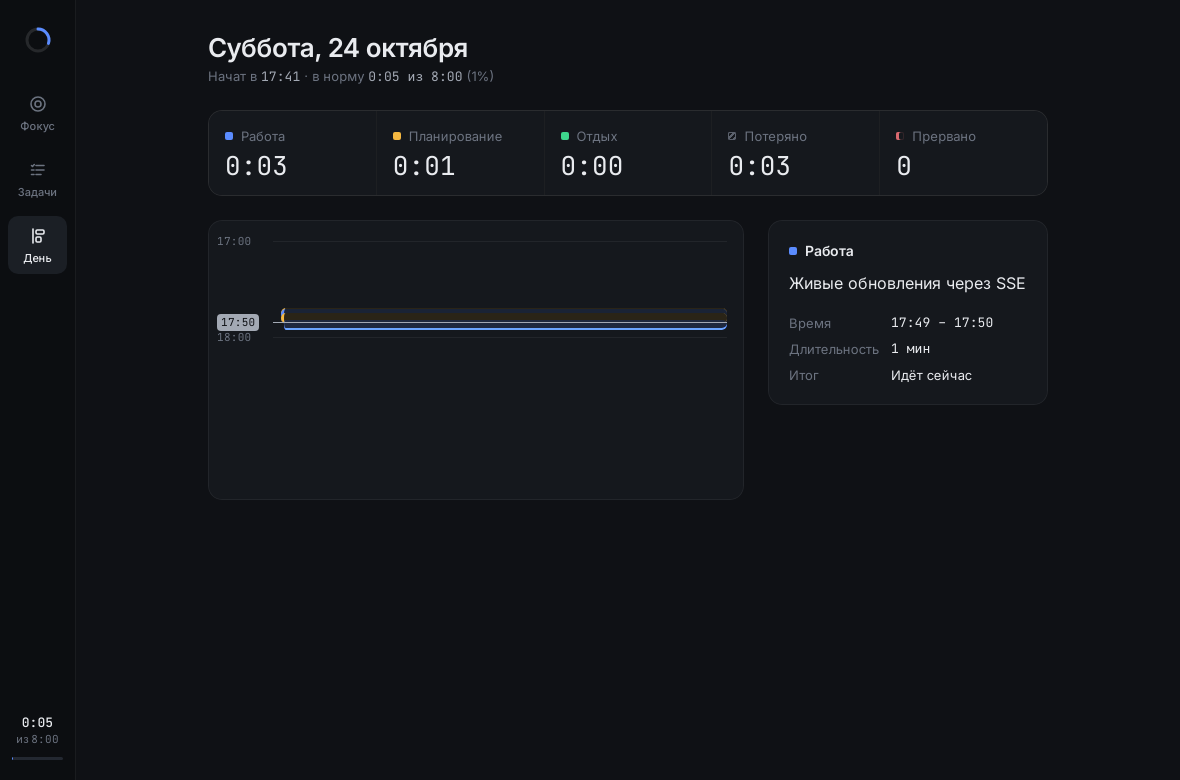
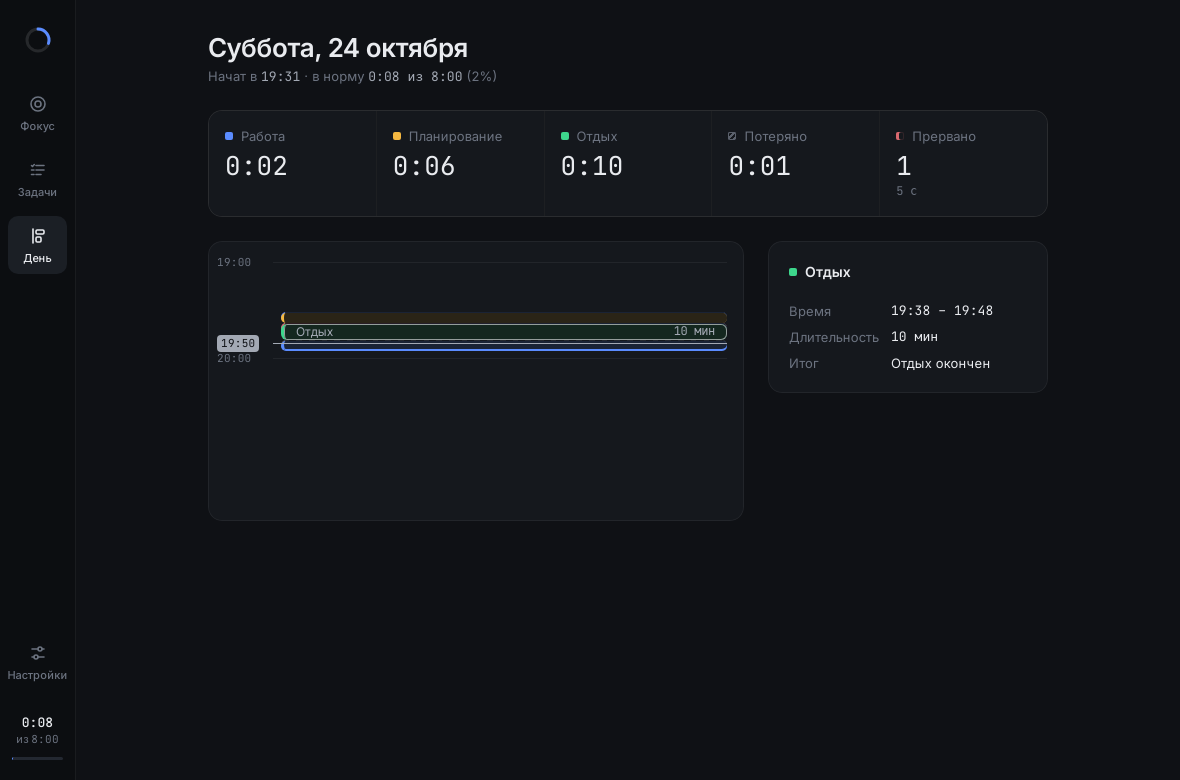
шаг 8: проверка вживую, скриншоты, известные ограничения
Проверка focus-flow ui на чистом каталоге данных: задачи, работа, «Готово»,
планирование, «Прервать», импорт и worklog через фальшивую Jira, настройки.
Исправлено: Пробел после клика по навигации. Скриншоты real-* — с
настоящего сервиса. docs/KNOWN-ISSUES.md. Шаг 8 отмечен.

Claude-Session: https://claude.ai/code/session_01XQ8wovWhXJpkyegxpNahSE

diff --git a/apps/ui/src/screens/focus.rs b/apps/ui/src/screens/focus.rs
@@ -75,7 +75,10 @@ window.__ffKeys = (e) => {
     const t = e.target;
     const tag = t && t.tagName;
     const typing = tag === 'INPUT' || tag === 'TEXTAREA' || (t && t.isContentEditable);
-    const control = tag === 'BUTTON' || tag === 'A';
+    // Пробел и Enter на кнопке нажимают её саму; на ссылке Enter переходит
+    // по ней, а Пробел ничего не делает — его забираем (фокус остаётся на
+    // пункте навигации после клика).
+    const control = tag === 'BUTTON' || (tag === 'A' && e.key === 'Enter');
     if (e.key === 'Escape') { dioxus.send('Escape'); return; }
     if (typing || control || e.repeat || e.ctrlKey || e.metaKey || e.altKey) return;
     if (e.key === ' ' || e.key === 'Enter') {

diff --git a/docs/KNOWN-ISSUES.md b/docs/KNOWN-ISSUES.md
@@ -1,0 +1,38 @@
+# Известные ограничения и непроверенное
+
+Состояние на 2026-10-24 (MVP, шаг 8). Здесь честно перечислено, что не проверялось в реальных условиях или сделано с ограничениями.
+
+## Проверено только в контейнере (Linux, Xvfb)
+
+- **Окно проверялось только на Linux под Xvfb** (WebKitGTK, программный рендер), скриншотами и `xdotool`. На настоящем macOS и Windows приложение не запускалось: не смотрели шрифты, масштаб Retina, меню, поведение при закрытии окна и сне системы.
+- **Системные уведомления** (`notify-rust`) на реальном рабочем столе не видели. В контейнере нет D-Bus сессии уведомлений, а на macOS уведомлениям может понадобиться разрешение для бинарника, не упакованного в `.app`. Звук при окончании работы — только звук самого уведомления (`sound_name`). Если уведомление не показано, звука не будет.
+- **Wake lock не реализован** (`Platform::keep_awake` — заглушка): во время работы система может уснуть. После пробуждения клиент догоняет сервис по SSE и страховочному опросу, но таймер на это время «засыпает» вместе с системой.
+- **launchd-шаблон** (`scripts/macos/dev.focusflow.serve.plist`) проверен только как валидный plist. `launchctl load` на macOS не запускали.
+- **`focus-flow ui`**: в контейнере проверены запуск с новым каталогом данных, подключение к уже запущенному сервису и штатная остановка сервиса при закрытии окна (`WM_DELETE_WINDOW`) и по SIGTERM. Закрытие через ⌘Q на macOS и через диспетчер задач Windows не проверялось.
+- **Ассеты в сборке cargo** берутся из исходников репозитория (`apps/ui/assets`): бинарник из `cargo install` работает, только пока жив клон репозитория. Переносимый пакет собирается `dx bundle` — его собирали (`dx build`), но установку пакета на чистую машину не проверяли.
+
+## Интеграции
+
+- **MCP не проверен с живым клиентом Claude.** Инструменты покрыты тестами: сырой JSON-RPC (Streamable HTTP) поверх роутера, без сети. `claude mcp add …` и Claude Desktop с `mcp-remote` не запускались: инструкции в README написаны по документации.
+- **Jira проверялась только на заглушках**: `wiremock` в тестах и маленький фальшивый сервер при ручной проверке UI (импорт, проверка подключения, worklog). С настоящей Jira (ни Data Center, ни Cloud) плагин не работал ни разу. Не проверены реальные коды и тексты ошибок, права, капча после неверных токенов, rate limit, прокси и самоподписанные сертификаты.
+- **Smart Checklist** не проверен ни на Data Center, ни на Cloud. Формат поля (текст, строка на пункт, маркеры `- + ~ x`) и запись `PUT /rest/api/2/issue/{key}` всем полем взяты из документации Railsware. На Cloud чек-лист может храниться иначе (свойство задачи или своё API приложения) — тогда импорт найдёт задачу без пунктов, а запись строк не сработает.
+- **Поиск поля чек-листа по имени** («Smart Checklist» или содержащее «Checklist») может выбрать не то поле, если таких полей несколько. Тогда поле надо указать вручную в «Настройках».
+- **Сопоставление пунктов со строками чек-листа — по тексту.** Если строку переименовали в Jira, а пункт — у нас, связь теряется: пункт будет отмечен готовым только у нас, а в лог попадёт предупреждение.
+- **Токен Jira лежит в файле** `secrets/jira/token` (права `0600`), а не в системном хранилище ключей (`keyring`), хотя SPEC его допускает. Токен доступа к сервису тоже лежит в файле.
+
+## Клиенты
+
+- **web и mobile — заготовки.** `apps/web` собирается под wasm и работает только на `MockApi`. `apps/mobile` исключён из workspace.
+- **Настройки длительностей и нормы** (`work_min`, `rest_min`, `daily_target_min`) есть в API (`PUT /api/settings`), но экрана для них в UI нет.
+- **Нет правки задач в UI**: переименования, заметок, удаления, переноса пунктов и `planned_for` (в API и MCP всё это есть). Отменить задачу можно только через API или Claude (`status: cancelled`).
+- **День нельзя закрыть или открыть из UI** (в API и MCP можно). Календаря по прошлым дням тоже нет: экран «День» показывает только сегодня.
+- **Нет правки сессий задним числом** — по SPEC это вне v1. Ошибочно начатую работу можно только прервать: она попадёт в отчёт как прерванная.
+- **Ввод кириллицы через `xdotool`** в автотестах не работает (ограничение `xdotool`, не приложения). Поэтому ручной ввод на русском под Xvfb не проверен; задачи на русском создавались через REST.
+- **Доступность** проверялась только по разметке (`aria-*`, роли). Скринридером интерфейс не проверяли.
+
+## Сервис
+
+- **Один процесс — одна БД.** Если запустить два `focus-flow serve` с одним каталогом данных на разных портах, каждый будет писать в SQLite сам по себе. Защиты (lock-файла) нет.
+- **Часовой пояс** берётся из системы при каждом расчёте границ дня. Если сменить пояс посреди дня, отчёт за этот день может сдвинуться.
+- **Полночь**: сессия через полночь относится ко дню старта (по SPEC). Если день не закрыли вручную, он остаётся открытым, а следующий день открывается заново при первом старте. Корректность отчёта за ночь проверена только тестами ядра.
+- **Удалённый режим (VDS)** не проверялся: `FOCUS_ALLOWED_HOSTS`/`FOCUS_ALLOWED_ORIGINS` и bind не на loopback есть, а TLS у сервиса нет — нужен обратный прокси.

diff --git a/docs/DECISIONS.md b/docs/DECISIONS.md
@@ -139,3 +139,4 @@
 - **Настройки Jira в UI — отдельный экран «Настройки»** (четвёртый пункт навигации, прижат к низу боковой панели над нормой дня — по образцу настольных приложений; шестерёнка в шапке «Задач» прятала бы глобальную настройку внутри одного экрана). Данные — через трейт `JiraSettingsApi` в `apps/ui` (не часть `FocusApi`: маршруты принадлежат плагину, контракт `api-types` не трогаем). Реализации: `HttpApi` (`GET`/`PUT /api/plugins/jira/settings`, `POST …/test`) и `MockJira` (`demo()` — «подключено», `unconfigured()`); `ApiHandle` хранит её третьим полем, мок подставляется `with_jira`. Типы `JiraState`/`JiraPatch` — свои, по JSON плагина, с `#[serde(default)]`. Форма шлёт все поля целиком (пустая строка очищает), токен — только если введён; «Удалить» шлёт `token: ""`. «Проверить подключение» сначала сохраняет несохранённые правки. Плашка в шапке карточки: «Подключено» / «Не настроено» (+ причина) / «Ошибка» (последняя ошибка Jira) / «Ошибка доставки» (из `/api/plugins/status`, с временем) и «в очереди N»; состояние перечитывается раз в 10 с. В «Задачах» при ненастроенной Jira кнопка «Импорт» неактивна, под полем — «Jira не подключена. Подключить в настройках».
 - **Поля ввода без `value`.** Управляемое поле (`value: "{signal}"` + `oninput`) в desktop-webview теряло символы при быстром наборе: «Release v0.1» превращалось в «Relae v0.1». Правка DOM после ре-рендера по первому нажатию приходит через IPC уже после второго и затирает его. Поэтому сделан компонент `TextInput`: значение задаётся один раз через `initial_value`, дальше текст живёт в DOM, а наружу уходит через `on_input`. Сброс (очистить после «Создать», подставить сохранённые настройки) — пересоздание поля по ключу `reset`, с возвратом фокуса. Компонент используют «Задачи», выбор пункта и «Настройки».
 - **`base_url` без схемы.** Плагин отвечает понятной ошибкой («нужен адрес со схемой, например https://…»), а не текстом парсера URL. UI сам подставляет `https://` к адресу без схемы.
+- **Пробел после клика по пункту навигации.** Фокус оставался на ссылке, и глобальный обработчик «Фокуса» пропускал Пробел, будто это нажатие на элемент управления. В итоге Пробел ничего не делал. Теперь у ссылки пропускается только Enter (он переходит по ссылке), а Пробел запускает главное действие экрана.

diff --git a/apps/CLAUDE.md b/apps/CLAUDE.md
@@ -6,9 +6,9 @@
 ## Уточнения для этого проекта (приоритет над AGENTS.md)
 
 - **Fullstack не используем.** Сервер — отдельный Axum-сервис. Features `server`/`fullstack`, `#[post]`/`#[get]`, `use_server_future` не нужны; данные — только через трейт `FocusApi` из `focus-api-types`.
-- **Экраны общие.** `enum Route`, экраны («Фокус», «Задачи», «День»), layout и компоненты живут в `apps/ui`. Платформенный крейт (`apps/desktop` и др.) содержит только `main.rs`: реализацию `Platform`, выбор `FocusApi` (`MockApi`/`HttpApi`) и запуск `ui::App`. Свой экран у платформы — только как осознанное исключение.
+- **Экраны общие.** `enum Route`, экраны («Фокус», «Задачи», «День», «Настройки»), layout и компоненты живут в `apps/ui`. Платформенный крейт (`apps/desktop` и др.) содержит только точку входа: реализацию `Platform`, выбор `FocusApi` (`MockApi`/`HttpApi`) и запуск `ui::App`. У `desktop` это `lib.rs` (`launch`, его вызывает и `focus-flow ui`) и тонкий `main.rs` для `dx`. Свой экран у платформы — только как осознанное исключение.
 - **`ui` не знает про платформу.** Всё платформенное (уведомления, wake lock, адрес сервиса) — через трейт `Platform` из контекста (`use_context_provider` в `main.rs`, `use_context` в компонентах). Стилевые различия — CSS-класс `platform-desktop|web|mobile` на корне.
-- **Зависимости `ui`:** только `dioxus` (с `router`) и `focus-api-types`. Платформенные крейты (`notify-rust`, `web-sys` и т.п.) — только в крейтах платформ.
+- **Зависимости `ui`:** `dioxus` (с `router`), `focus-api-types` и кроссплатформенное для `HttpApi` (`reqwest` без TLS, `serde`, `futures-*`, `async-trait`) — все из `[workspace.dependencies]`. Платформенные крейты (`notify-rust`, `web-sys` и т.п.) — только в крейтах платформ.
 - **Компоненты не ходят в HTTP напрямую** — только через `FocusApi`, полученный из контекста.
 - **Стили:** `document::Stylesheet` + `asset!()`; дизайн-токены (цвета, отступы, радиусы, шрифты) — в `apps/ui/assets/tokens.css`; тёмная тема по умолчанию. Цвета сессий: работа — синий, отдых — зелёный, планирование — жёлтый, потерянное время — серый.
 - **Сейчас только desktop.** `apps/web` держим собираемым, но не полируем; `apps/mobile` исключён из workspace до появления мобильных toolchain'ов.

diff --git a/apps/README.md b/apps/README.md
@@ -27,8 +27,9 @@ ui/
 │  ├─ api/
 │  │  ├─ mod.rs       # трейт FocusApi (из crates/api-types)
 │  │  ├─ mock.rs      # MockApi — данные и живой таймер без сервиса
-│  │  └─ http.rs      # HttpApi — REST + SSE к focus-flow serve
-│  ├─ screens/        # focus.rs, tasks.rs, day.rs
+│  │  ├─ http.rs      # HttpApi — REST + SSE к focus-flow serve
+│  │  └─ jira.rs      # JiraSettingsApi — настройки плагина Jira (HttpApi, MockJira)
+│  ├─ screens/        # focus.rs, tasks.rs, day.rs, settings.rs
 │  └─ components/     # timer_ring, task_tree, day_timeline, …
 ```
 
@@ -37,7 +38,7 @@ ui/
 - `ui` не знает про платформу. Всё, что отличается между платформами, идёт через трейт `Platform` из контекста.
 - Никаких платформенных зависимостей в `ui` (`notify-rust`, `web-sys` и т.п.) — они в крейтах платформ.
 - Данные — только через `FocusApi`; из компонентов не ходим в HTTP напрямую.
-- Зависимости `ui`: только `dioxus` и `crates/api-types`.
+- Зависимости `ui`: `dioxus`, `crates/api-types` и кроссплатформенное для `HttpApi` (`reqwest` без TLS, `serde`, `futures-*`) — без платформенных крейтов.
 
 ## Крейты платформ
 
@@ -47,7 +48,8 @@ ui/
 desktop/
 ├─ assets/            # ассеты только для desktop (иконка и т.п.)
 ├─ src/
-│  └─ main.rs         # реализация Platform для desktop, запуск ui::App
+│  ├─ lib.rs          # реализация Platform для desktop, launch() — запуск ui::App
+│  └─ main.rs         # вход для dx serve / dx build
 ├─ Cargo.toml         # dioxus с feature "desktop" + платформенные зависимости
 └─ Dioxus.toml
 ```
@@ -70,4 +72,4 @@ cd apps/desktop
 dx build
 ```
 
-Сервис должен быть запущен (`cargo run -p focus-flow -- serve`), если клиент работает через `HttpApi`. С `MockApi` сервис не нужен.
+Сервис должен быть запущен (`cargo run -p focus-flow -- serve`), если клиент работает через `HttpApi`. С `MockApi` сервис не нужен. Окно и сервис одной командой — `cargo run -p focus-flow -- ui` из корня.

diff --git a/docs/PLAN-backend.md b/docs/PLAN-backend.md
@@ -23,6 +23,6 @@
 - [x] **5. Плагинная система.** `plugin-api`: трейты, `DomainEvent`, `PluginCtx`; реестр плагинов; воркер outbox с повторами; `/api/plugins/status`; `/api/import` через `TaskSource`. Тестовый фейковый плагин.
 - [x] **6. MCP.** `api-mcp` на `rmcp`, Streamable HTTP на `/mcp` в том же Axum; инструменты из SPEC + `mcp_tools()` плагинов. Проверить: `claude mcp add --transport http focus-flow http://127.0.0.1:7878/mcp --header "Authorization: Bearer <token>"`. В README — инструкция подключения.
 - [x] **7. Плагин Jira.** Всё из раздела SPEC «Плагин Jira»: настройки (base URL, режим DC/Cloud, токен в keyring, ID поля с автопоиском), импорт, синхронизация пунктов, worklog, сопоставление строк по тексту с перечитыванием. Тесты на `wiremock`.
-- [ ] **8. Финиш.** README: сборка, запуск, подключение Claude, настройка Jira. Скрипт/инструкция автозапуска `serve` (launchd на macOS). Прогнать всё, исправить предупреждения.
+- [x] **8. Финиш.** README: сборка, запуск, подключение Claude, настройка Jira. Скрипт/инструкция автозапуска `serve` (launchd на macOS). Прогнать всё, исправить предупреждения.
 
 Если в шаге нужно решение, которого нет в SPEC: принять разумное, записать в `docs/DECISIONS.md` (дата, шаг, решение, почему) и продолжить. Не останавливаться с вопросом.

diff --git a/apps/desktop/README.md b/apps/desktop/README.md
@@ -1,6 +1,6 @@
 # desktop — Focus Flow для Linux/macOS/Windows
 
-Только `main.rs`: `DesktopPlatform` (уведомления через `notify-rust`), `HttpApi` (или `MockApi` в режиме демо) в контексте, окно 1180×780 (минимум 960×640).
+`lib.rs`: `DesktopPlatform` (уведомления через `notify-rust`), `HttpApi` (или `MockApi` в режиме демо) в контексте, окно 1180×780 (минимум 960×640); вход — `desktop::launch(Options, on_exit)`. Его вызывают `main.rs` (для `dx serve`/`dx build`) и `focus-flow ui` (окно + сервис в одном процессе).
 
 ```bash
 dx serve            # разработка
@@ -9,7 +9,8 @@ dx build            # сборка
 
 Переменные для демо и скриншотов:
 
-- `FOCUS_MOCK_SCENARIO` — `idle` (по умолчанию), `work`, `rest`, `planning`, `picker`, `interrupt`, `done-choice`, `tasks`, `day`, `empty`;
+- `FOCUS_MOCK_SCENARIO` — `idle` (по умолчанию), `work`, `rest`, `planning`, `picker`, `interrupt`, `done-choice`, `tasks`, `day`, `settings`, `empty`;
+- `FOCUS_MOCK_JIRA=off` — Jira в моке не настроена;
 - `FOCUS_MOCK_SPEED` — ускорение часов мока (`60` — минута за секунду, `0` — часы стоят).
 
 ## Сервис

diff --git a/README.md b/README.md
@@ -8,9 +8,9 @@
 |---|---|
 | ![Фокус](docs/screenshots/real-focus-work.png) | ![Задачи](docs/screenshots/real-tasks.png) |
 | **День** | **Настройки Jira** |
-| ![День](docs/screenshots/real-day.png) | ![Настройки](docs/screenshots/real-settings.png) |
+| ![День](docs/screenshots/real-day.png) | ![Настройки](docs/screenshots/settings.png) |
 
-Остальные состояния (простой, выбор пункта, отдых, планирование, «Готово», «Прервать») сняты на моке и лежат в [`docs/screenshots`](docs/screenshots).
+Скриншоты с префиксом `real-` сняты на настоящем сервисе. Настройки и остальные состояния (простой, выбор пункта, отдых, планирование, «Готово», «Прервать») сняты на моке и лежат в [`docs/screenshots`](docs/screenshots).
 
 ## Установка
 

diff --git a/apps/ui/README.md b/apps/ui/README.md
@@ -15,8 +15,9 @@ ui/
    ├─ fonts.rs        # @font-face для шрифтов из assets/fonts
    ├─ fmt.rs          # форматирование времени
    ├─ api/mock.rs     # MockApi — FocusApi в памяти с живым таймером и демо-днём
-   ├─ screens/        # focus.rs, tasks.rs, day.rs
-   └─ components/     # ring, picker, dialog, norm_bar, icons
+   ├─ api/jira.rs     # JiraSettingsApi — настройки плагина Jira (HttpApi, MockJira)
+   ├─ screens/        # focus.rs, tasks.rs, day.rs, settings.rs
+   └─ components/     # ring, picker, dialog, norm_bar, icons, text_input
 ```
 
 `cargo test -p ui` гоняет сценарии `focus-api-contract-tests` на `MockApi`.

diff --git a/CLAUDE.md b/CLAUDE.md
@@ -11,7 +11,7 @@
 ```
 crates/  api-types api-contract-tests core storage plugin-api plugin-jira api-rest api-mcp server   — сервис (пакеты focus-*)
 apps/    ui desktop web mobile                                                                     — клиенты Dioxus (пакеты ui, desktop, web, mobile)
-bin/     focus-flow                                                                                — CLI: serve | ui
+bin/     focus-flow                                                                                — CLI: serve | ui | token
 ```
 
 ## Владение кодом (две параллельные сессии)
